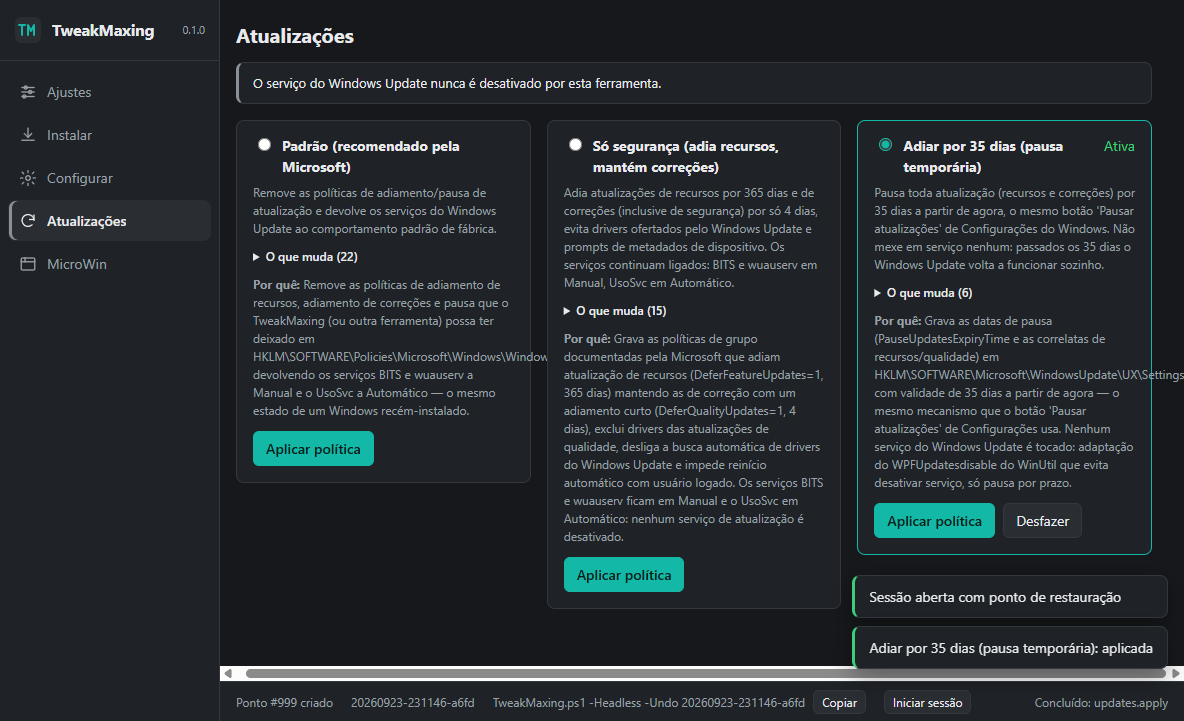
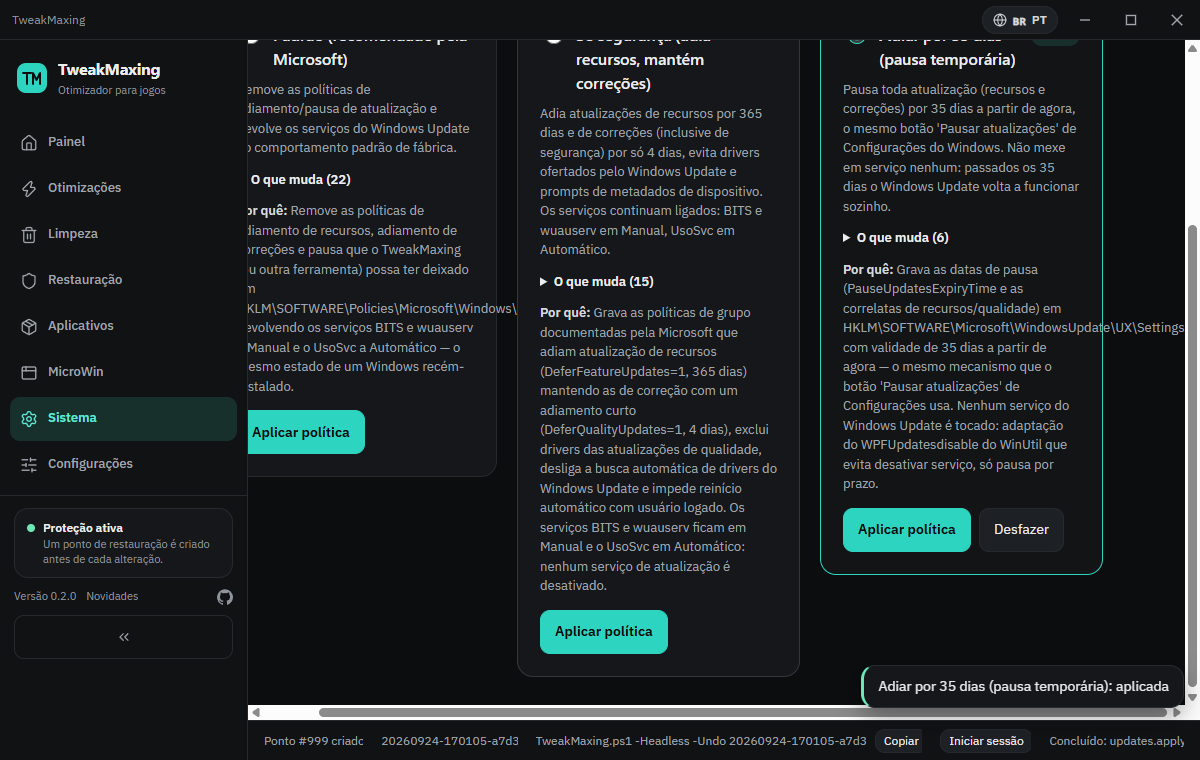
feat(v2): wave 3 integration - headless modes, AMD VRAM fix, README, screenshots, report, 2.0.0 notes
- scripts/main.ps1, start.ps1, Start-TmxDev.ps1 accept leve/moderado/avancado/ultimate as -Preset (spec 6)
- Get-TmxRegistryChildNamesSafe no longer aborts on the access-denied Properties subkey
  (AMD 7800 XT VRAM read as 4 GB from 32-bit AdapterRAM); test for doubled spaces in DriverDesc
- Headless.Tests: -Preset moderado -DryRun
- README, docs/img v2 screenshots, docs/v2/02-relatorio.md, docs/release-notes/v2.0.0.md, VERSION 2.0.0

Pester 33 files / 973 tests (972 pass, 1 intentional skip). GUI 11/11.

diff --git a/docs/release-notes/v2.0.0.md b/docs/release-notes/v2.0.0.md
@@ -1,0 +1,51 @@
+# TweakMaxing v2.0.0
+
+Interface nova, modos de otimização, português e inglês, e cinco telas novas. O jeito de executar não mudou:
+
+```powershell
+irm "https://tweakmax1ng.vercel.app" | iex
+```
+
+## Novidades
+
+- **Casca nova:** barra de título própria, menu lateral (Painel, Otimizações, Limpeza, Restauração, Aplicativos,
+  MicroWin, Sistema e Configurações), tema escuro com verde-azulado e fontes Sora e IBM Plex.
+- **Português e inglês:** escolha na primeira abertura e troca pela barra de título. A interface e os textos do
+  catálogo de ajustes e de aplicativos têm as duas versões.
+- **Painel:** CPU, GPU com VRAM, RAM (tipo e velocidade), disco e sistema, status das otimizações e até três
+  recomendações para este PC (XMP/DOCP, HAGS e plano de energia).
+- **Otimizações por modo:** Leve, Moderado, Avançado e Ultimate, cumulativos, com cards que dizem o que o ajuste faz,
+  o benefício e o ponto de atenção. O Ultimate pede confirmação separada. Os modos também valem no headless
+  (`-Preset moderado`).
+- **9 ajustes novos:** atraso do menu, sugestões do Windows, Wi-Fi automático de OEM, DirectX para jogos em janela,
+  guia do painel da GPU, PowerShell 7 como padrão do Terminal, escolha do bloatware que fica, apps de jogos da
+  Microsoft e acesso guiado à proteção em tempo real do Defender.
+- **Limpeza:** temporários do usuário e do sistema, cache do Windows Update, miniaturas, Lixeira e prefetch, com
+  medição antes de apagar. Arquivos em uso são pulados.
+- **Restauração:** lista, cria, exclui e restaura pontos de restauração (a restauração exige confirmação e nunca
+  reinicia sozinha).
+- **Aplicativos:** cards novos, exportar e importar a seleção e o selo "Instalado". **MicroWin** com layout novo,
+  opções novas e botão de cancelar.
+- **Sistema e Configurações:** as antigas abas Configurar e Atualizações viram sub-abas de Sistema. Configurações
+  salva idioma, nome de exibição e menu recolhido, verifica atualização do app e limpa cache e backups antigos.
+
+## Correções
+
+- A VRAM de placas AMD aparecia como 4 GB: o nome do driver tem espaço duplo e uma subchave do registro sem
+  permissão derrubava a leitura inteira.
+- Aplicar o PowerShell 7 como padrão travava o trabalho ao gravar o estado.
+- Escolher "não manter nenhum" no bloatware quebrava.
+- Consultas WMI ganharam tempo limite, para não travar em máquinas com o WMI ocupado.
+
+## Como verificar o download
+
+```powershell
+Invoke-WebRequest -Uri https://github.com/nikemafia044-a11y/tweakmaxing/releases/download/v2.0.0/TweakMaxing.ps1 -OutFile TweakMaxing.ps1
+Invoke-WebRequest -Uri https://github.com/nikemafia044-a11y/tweakmaxing/releases/download/v2.0.0/SHA256SUMS.txt -OutFile SHA256SUMS.txt
+(Get-FileHash .\TweakMaxing.ps1).Hash -eq (Get-Content .\SHA256SUMS.txt).Split(' ')[0]   # deve imprimir True
+```
+
+## Créditos
+
+- **[WinUtil](https://github.com/ChrisTitusTech/winutil)** (Chris Titus Tech), licença MIT. Veja `THIRD-PARTY-NOTICES.md`.
+- **Microsoft.Web.WebView2**, licença BSD-3-Clause. Fontes **Sora** e **IBM Plex**, licença OFL. Ícones **Lucide**, licença ISC.

diff --git a/docs/v2/02-relatorio.md b/docs/v2/02-relatorio.md
@@ -1,0 +1,42 @@
+# TweakMaxing v2 (2.0.0): relatório
+
+Execução do plano `docs/plans/2026-09-24-v2.md` contra o spec `docs/specs/2026-09-24-v2-design.md`.
+
+## Entregas
+
+| Onda | Tarefa | Commit |
+|---|---|---|
+| 1 | T1 casca, tema, fontes, i18n e barra de título; T2 modos, textos e inglês; T3 nove ajustes novos; T4 back-ends de sistema | `4e3a2f5` |
+| 2 | T5 Painel, Limpeza, Restauração, Configurações e Sistema; T6 Otimizações; T7 Aplicativos e MicroWin | `fde2b15` |
+| 3 | T8 integração (headless com modos, VRAM, README, capturas, relatório); T9 publicação | este commit |
+
+## Verificação
+
+- **Pester:** 33 arquivos e 973 testes (972 verdes e 1 pulado, nenhuma falha), um arquivo por processo (a suíte inteira num processo só esgotou a
+  memória da máquina). O pulado é de propósito: o caminho "compilar sem o SDK do WebView2" não se aplica aqui,
+  porque o SDK existe.
+- **GUI (agent-browser via CDP):** 11 de 11 verdes: Shell, Painel, Otimizações, Limpeza, Restauração, Aplicativos,
+  MicroWin, Sistema (Configurar e Atualizações), Configurações e Sessão.
+- **Artefato compilado:** headless `-DryRun` em todos os modos, saindo com 0: leve (46 itens), moderado (74),
+  avançado (90) e ultimate (94). Os modos são cumulativos.
+- **Busca por azul:** `tests/Palette.Tests.ps1` não acha nenhuma cor com matiz entre 190° e 260° em `src/web`.
+  O contraste AA dos pares de texto está verificado.
+- **Capturas** em `docs/img`, comparadas com `docs/design/01..04`. A disposição, os textos e os tokens batem.
+  A diferença que resta é o conteúdo que o próprio teste gera (toasts, dados simulados).
+
+## Bugs achados e corrigidos na integração
+
+1. `Get-TmxV2FileTextRaw` usava `Get-Content -Raw`. A string carrega propriedades ETS (PSDrive, PSProvider), e o
+   `ConvertTo-Json -Depth 12` do state.json travava. Aplicar o SIS-014 pela GUI teria travado o job.
+2. Um HashSet vazio devolvido pelo pipeline virava `$null` (APM-006 com "não manter nenhum").
+3. A lista falsa de pontos de restauração não fazia round-trip de JSON com 0 ou 1 item.
+4. Valores `byte[]` do registro saíam desenrolados em `Get-TmxItemPropertySafe`.
+5. `cleanup.run` parava o `wuauserv` real em modo de teste.
+6. A VRAM aparecia como 4 GB em AMD: o `DriverDesc` tem espaço duplo, e a subchave `Properties` sem permissão
+   derrubava a enumeração inteira com `-ErrorAction Stop` (a leitura caía no `AdapterRAM` de 32 bits).
+7. O headless não aceitava os modos v2 em `-Preset` (o spec §6 pede).
+
+## Pendências conhecidas
+
+- Os testes de GUI rodam só em pt-BR. O inglês é coberto pelo registro das chaves (`tmx.i18n.add` em cada tela),
+  não por captura.
